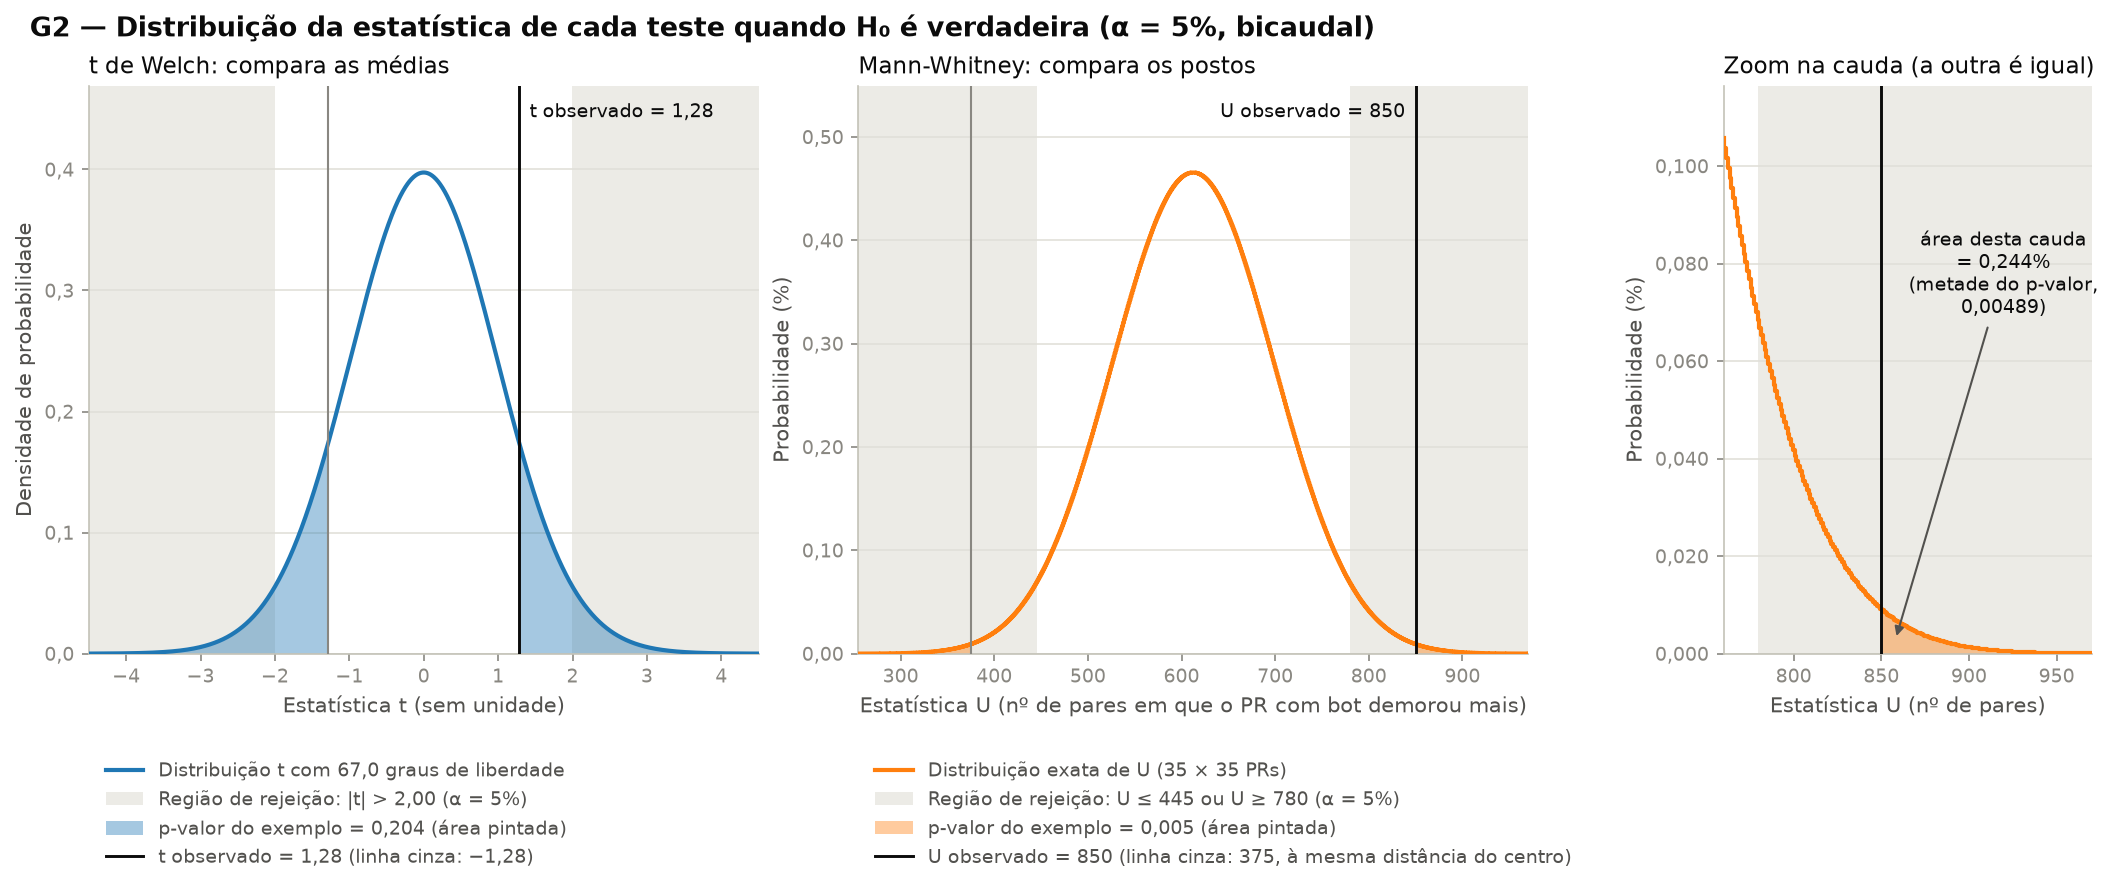
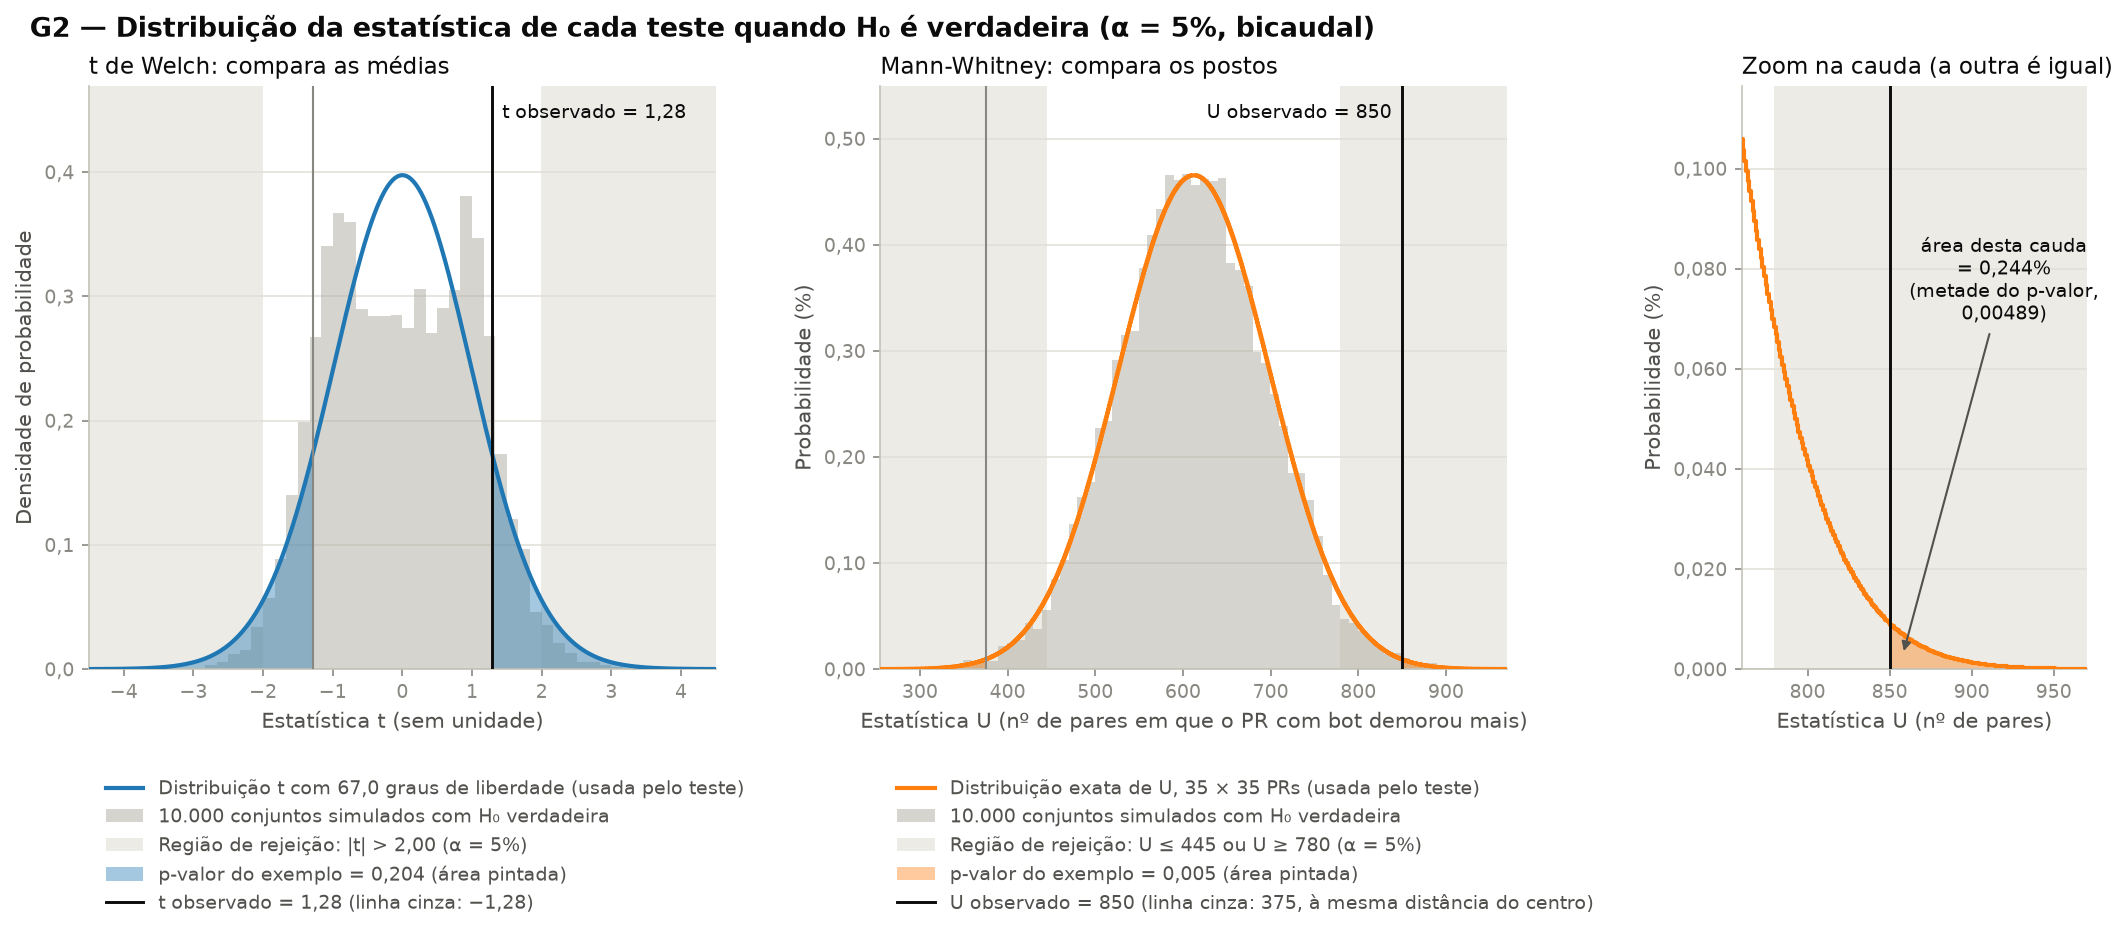
feat: #12 #13 simula a estatistica no g2

Changed region(s): [[0.0312, 0.0, 0.9995, 0.9708], [0.0, 0.2427, 0.0312, 0.6067]]

diff --git a/src/grafico_g2.py b/src/grafico_g2.py
@@ -5,6 +5,11 @@ onde a área do p-valor é pequena demais para aparecer na escala cheia. A faixa
 cinza é a região de rejeição com α = 5% bicaudal, a área colorida é o p-valor
 do exemplo da issue #11 e a linha escura marca a estatística observada nele.
 
+A curva é a distribuição que o teste usa para calcular o p-valor. As barras
+atrás dela mostram a estatística em 10.000 conjuntos simulados com H₀
+verdadeira (situação realista da Q1): no Mann-Whitney as duas coincidem, e no
+Welch a diferença entre elas explica o erro tipo I abaixo de 5% do G3.
+
 Uso:
     python -m src.grafico_g2
 """
@@ -22,9 +27,11 @@ from matplotlib.patches import Patch
 from matplotlib.ticker import FuncFormatter
 from scipy import stats
 
+from src.config import N_SIMULACOES, SEED, make_rng
 from src.estilo import CORES_TESTE, ROTULOS_TESTE
 from src.exemplo import Exemplo, gerar_exemplo
 from src.formatacao import numero, p_valor, porcentagem
+from src.monte_carlo import REALISTA, gerar_conjuntos
 from src.testes_estatisticos import ResultadoMannWhitney, distribuicao_nula_u
 
 RAIZ = Path(__file__).resolve().parent.parent
@@ -39,6 +46,40 @@ GRADE = "#e1e0d9"
 EIXO = "#c3c2b7"
 FAIXA_REJEICAO = "#ecebe6"
 OPACIDADE_P_VALOR = 0.4
+BARRAS_SIMULADAS = "#b4b1a6"
+OPACIDADE_BARRAS = 0.55
+
+
+def estatisticas_sob_h0(
+    repeticoes: int = N_SIMULACOES, semente: int = SEED
+) -> dict[str, np.ndarray]:
+    """t de Welch e U de Mann-Whitney em conjuntos simulados com H₀ verdadeira.
+
+    Usa a situação realista da Q1 (mesma semente), então a proporção desses
+    valores que cai na região de rejeição é o erro tipo I mostrado no G3.
+    """
+    com_bot, sem_bot = gerar_conjuntos(REALISTA, 0.0, repeticoes, make_rng(semente))
+    return {
+        "welch": np.asarray(stats.ttest_ind(com_bot, sem_bot, axis=1, equal_var=False).statistic),
+        "mann_whitney": np.asarray(
+            stats.mannwhitneyu(com_bot, sem_bot, axis=1, method="exact").statistic
+        ),
+    }
+
+
+def _barras(ax: Axes, valores: np.ndarray, bordas: np.ndarray, escala: float = 1.0) -> None:
+    """Histograma normalizado pelo total de conjuntos, comparável à curva."""
+    largura = np.diff(bordas)[0]
+    pesos = np.full(valores.size, escala / (valores.size * largura))
+    ax.hist(
+        valores,
+        bins=bordas,
+        weights=pesos,
+        color=BARRAS_SIMULADAS,
+        alpha=OPACIDADE_BARRAS,
+        linewidth=0,
+        zorder=1,
+    )
 
 
 def _formatar_eixos(ax: Axes, casas_x: int, casas_y: int) -> None:
@@ -69,6 +110,12 @@ def _rotular_linha(ax: Axes, x: float, y: float, texto: str, *, direita: bool = 
 def _legenda(ax: Axes, cor: str, *, curva: str, regiao: str, area: str, observado: str) -> None:
     itens = [
         Line2D([], [], color=cor, linewidth=2, label=curva),
+        Patch(
+            facecolor=BARRAS_SIMULADAS,
+            alpha=OPACIDADE_BARRAS,
+            edgecolor="none",
+            label=f"{numero(N_SIMULACOES, 0)} conjuntos simulados com H₀ verdadeira",
+        ),
         Patch(facecolor=FAIXA_REJEICAO, edgecolor="none", label=f"{regiao} (α = 5%)"),
         Patch(facecolor=cor, alpha=OPACIDADE_P_VALOR, edgecolor="none", label=area),
         Line2D([], [], color=TINTA, linewidth=1.4, label=observado),
@@ -83,7 +130,7 @@ def _legenda(ax: Axes, cor: str, *, curva: str, regiao: str, area: str, observad
     )
 
 
-def _painel_welch(ax: Axes, exemplo: Exemplo) -> None:
+def _painel_welch(ax: Axes, exemplo: Exemplo, t_simulados: np.ndarray) -> None:
     w = exemplo.welch
     cor = CORES_TESTE["welch"]
     limite = max(4.5, abs(w.t) + 0.8)
@@ -93,6 +140,7 @@ def _painel_welch(ax: Axes, exemplo: Exemplo) -> None:
 
     for inicio, fim in ((-limite, -w.t_critico), (w.t_critico, limite)):
         ax.axvspan(inicio, fim, color=FAIXA_REJEICAO, linewidth=0, zorder=0)
+    _barras(ax, t_simulados, np.linspace(-limite, limite, 55))
     ax.fill_between(
         x,
         densidade,
@@ -119,7 +167,7 @@ def _painel_welch(ax: Axes, exemplo: Exemplo) -> None:
     _legenda(
         ax,
         cor,
-        curva=f"Distribuição t com {numero(w.gl, 1)} graus de liberdade",
+        curva=f"Distribuição t com {numero(w.gl, 1)} graus de liberdade (usada pelo teste)",
         regiao=f"Região de rejeição: |t| > {numero(w.t_critico)}",
         area=f"p-valor do exemplo = {p_valor(w.p_valor)} (área pintada)",
         observado=f"t observado = {numero(w.t)} (linha cinza: {numero(-w.t)})",
@@ -137,7 +185,7 @@ def _faixa_u(m: ResultadoMannWhitney) -> tuple[np.ndarray, np.ndarray, float, fl
     return u, 100 * pmf, inicio, fim  # probabilidade em %
 
 
-def _painel_mann_whitney(ax: Axes, exemplo: Exemplo) -> None:
+def _painel_mann_whitney(ax: Axes, exemplo: Exemplo, u_simulados: np.ndarray) -> None:
     m = exemplo.mann_whitney
     cor = CORES_TESTE["mann_whitney"]
     u, probabilidade, inicio_x, fim_x = _faixa_u(m)
@@ -147,6 +195,9 @@ def _painel_mann_whitney(ax: Axes, exemplo: Exemplo) -> None:
 
     ax.axvspan(inicio_x, inferior + 0.5, color=FAIXA_REJEICAO, linewidth=0, zorder=0)
     ax.axvspan(superior - 0.5, fim_x, color=FAIXA_REJEICAO, linewidth=0, zorder=0)
+    # Barras de 10 em 10 valores de U, em % por valor, na mesma escala da curva.
+    bordas = np.arange(np.floor(inicio_x / 10) * 10 - 0.5, fim_x + 10, 10)
+    _barras(ax, u_simulados, bordas, escala=100.0)
     ax.fill_between(
         u,
         probabilidade,
@@ -181,7 +232,7 @@ def _painel_mann_whitney(ax: Axes, exemplo: Exemplo) -> None:
     _legenda(
         ax,
         cor,
-        curva=f"Distribuição exata de U ({m.n_com} × {m.n_sem} PRs)",
+        curva=f"Distribuição exata de U, {m.n_com} × {m.n_sem} PRs (usada pelo teste)",
         regiao=f"Região de rejeição: U ≤ {numero(inferior, 0)} ou U ≥ {numero(superior, 0)}",
         area=f"p-valor do exemplo = {p_valor(m.p_valor)} (área pintada)",
         observado=(
@@ -248,17 +299,25 @@ def _painel_zoom(ax: Axes, exemplo: Exemplo) -> None:
     _formatar_eixos(ax, casas_x=0, casas_y=3)
 
 
-def grafico_g2(exemplo: Exemplo | None = None) -> Figure:
-    """Monta o G2 para o exemplo da issue #11 (ou outro conjunto, se passado)."""
+def grafico_g2(
+    exemplo: Exemplo | None = None, simuladas: dict[str, np.ndarray] | None = None
+) -> Figure:
+    """Monta o G2 para o exemplo da issue #11 (ou outro conjunto, se passado).
+
+    `simuladas` são as estatísticas de `estatisticas_sob_h0`; sem elas, a função
+    roda a simulação (o dashboard passa o resultado guardado em cache).
+    """
     if exemplo is None:
         exemplo = gerar_exemplo()
+    if simuladas is None:
+        simuladas = estatisticas_sob_h0()
 
     # Figure direto, sem pyplot: o Streamlit roda o script fora da thread
     # principal, e assim não há estado global nem janela para fechar.
-    fig = Figure(figsize=(14, 5.8), layout="constrained", facecolor="white")
+    fig = Figure(figsize=(14, 6.1), layout="constrained", facecolor="white")
     ax_welch, ax_mw, ax_zoom = fig.subplots(1, 3, width_ratios=[1, 1, 0.55])
-    _painel_welch(ax_welch, exemplo)
-    _painel_mann_whitney(ax_mw, exemplo)
+    _painel_welch(ax_welch, exemplo, simuladas["welch"])
+    _painel_mann_whitney(ax_mw, exemplo, simuladas["mann_whitney"])
     _painel_zoom(ax_zoom, exemplo)
 
     fig.suptitle(
@@ -273,9 +332,13 @@ def grafico_g2(exemplo: Exemplo | None = None) -> Figure:
     return fig
 
 
-def salvar_g2(destino: Path = FIGURA_PADRAO, exemplo: Exemplo | None = None) -> Path:
+def salvar_g2(
+    destino: Path = FIGURA_PADRAO,
+    exemplo: Exemplo | None = None,
+    simuladas: dict[str, np.ndarray] | None = None,
+) -> Path:
     destino.parent.mkdir(parents=True, exist_ok=True)
-    grafico_g2(exemplo).savefig(destino, dpi=150, bbox_inches="tight")
+    grafico_g2(exemplo, simuladas).savefig(destino, dpi=150, bbox_inches="tight")
     return destino
 
 

diff --git a/tests/test_grafico_g2.py b/tests/test_grafico_g2.py
@@ -2,12 +2,23 @@
 
 from __future__ import annotations
 
-import matplotlib.colors as mcolors
-import pytest
+import math
 
+import matplotlib.colors as mcolors
+import numpy as np
+import pytest
+from scipy import stats
+
+from src.config import N_SIMULACOES
 from src.estilo import CORES_TESTE
 from src.exemplo import gerar_exemplo
-from src.grafico_g2 import grafico_g2, salvar_g2
+from src.grafico_g2 import estatisticas_sob_h0, grafico_g2, salvar_g2
+from src.monte_carlo import REALISTA, simular
+
+
+@pytest.fixture(scope="module")
+def simuladas() -> dict[str, np.ndarray]:
+    return estatisticas_sob_h0()
 
 
 def _linhas_verticais(ax) -> list[float]:
@@ -18,8 +29,8 @@ def _linhas_verticais(ax) -> list[float]:
     ]
 
 
-def test_g2_tem_titulo_eixos_e_legenda() -> None:
-    fig = grafico_g2()
+def test_g2_tem_titulo_eixos_e_legenda(simuladas) -> None:
+    fig = grafico_g2(simuladas=simuladas)
     welch, mann_whitney, zoom = fig.axes[:3]
 
     assert "G2" in fig.get_suptitle()
@@ -31,10 +42,11 @@ def test_g2_tem_titulo_eixos_e_legenda() -> None:
         textos = [t.get_text() for t in ax.get_legend().get_texts()]
         assert any("Região de rejeição" in t for t in textos)
         assert any("p-valor" in t for t in textos)
+        assert any("conjuntos simulados com H₀ verdadeira" in t for t in textos)
 
 
-def test_g2_usa_a_cor_de_cada_teste() -> None:
-    fig = grafico_g2()
+def test_g2_usa_a_cor_de_cada_teste(simuladas) -> None:
+    fig = grafico_g2(simuladas=simuladas)
     welch, mann_whitney, zoom = fig.axes[:3]
     pares = ((welch, "welch"), (mann_whitney, "mann_whitney"), (zoom, "mann_whitney"))
     for ax, teste in pares:
@@ -42,23 +54,60 @@ def test_g2_usa_a_cor_de_cada_teste() -> None:
         assert CORES_TESTE[teste] in cores
 
 
-def test_g2_marca_a_estatistica_observada() -> None:
+def test_g2_marca_a_estatistica_observada(simuladas) -> None:
     exemplo = gerar_exemplo()
-    fig = grafico_g2(exemplo)
+    fig = grafico_g2(exemplo, simuladas)
     welch, mann_whitney, zoom = fig.axes[:3]
     assert exemplo.welch.t in _linhas_verticais(welch)
     assert exemplo.mann_whitney.u in _linhas_verticais(mann_whitney)
     assert exemplo.mann_whitney.u in _linhas_verticais(zoom)
 
 
+def test_g2_desenha_as_barras_simuladas(simuladas) -> None:
+    welch, mann_whitney, _ = grafico_g2(simuladas=simuladas).axes[:3]
+    for ax in (welch, mann_whitney):
+        assert len(ax.patches) > 20  # as barras do histograma
+
+
+def test_estatisticas_simuladas_sao_as_da_q1(simuladas) -> None:
+    """Os t e U simulados vêm dos mesmos conjuntos da Q1 (situação realista)."""
+    assert simuladas["welch"].size == simuladas["mann_whitney"].size == N_SIMULACOES
+    q1 = simular(REALISTA, 0.0)
+    p_welch = 2 * stats.t.sf(np.abs(simuladas["welch"]), _gl_welch_da_q1())
+    np.testing.assert_allclose(p_welch, q1.p["welch"], rtol=1e-9)
+
+
+def _gl_welch_da_q1() -> np.ndarray:
+    from src.config import make_rng
+    from src.monte_carlo import gerar_conjuntos
+
+    com, sem = gerar_conjuntos(REALISTA, 0.0, N_SIMULACOES, make_rng())
+    return stats.ttest_ind(com, sem, axis=1, equal_var=False).df
+
+
+def test_u_simulado_segue_a_distribuicao_exata(simuladas) -> None:
+    u = simuladas["mann_whitney"]
+    assert math.isclose(u.mean(), 35 * 35 / 2, rel_tol=0.01)
+    assert math.isclose(u.std(), math.sqrt(35 * 35 * 71 / 12), rel_tol=0.03)
+
+
+def test_t_simulado_tem_dois_picos_e_caudas_leves(simuladas) -> None:
+    """Sustenta o texto da seção 3: picos perto de ±1 e pouca massa além de ±2."""
+    t = simuladas["welch"]
+    centro = np.mean(np.abs(t) < 0.25)
+    perto_de_um = np.mean((np.abs(t) > 0.75) & (np.abs(t) < 1.25)) / 2
+    assert perto_de_um > centro  # mais massa em cada pico do que no meio
+    assert np.mean(np.abs(t) > 2) < 0.05
+
+
 @pytest.mark.parametrize("delta", [0.0, -1.0, 2.0])
-def test_g2_funciona_em_outros_exemplos(delta: float) -> None:
+def test_g2_funciona_em_outros_exemplos(delta: float, simuladas) -> None:
     """Sem efeito, com o U na cauda esquerda e com efeito grande."""
-    fig = grafico_g2(gerar_exemplo(delta_mu=delta))
+    fig = grafico_g2(gerar_exemplo(delta_mu=delta), simuladas)
     assert len(fig.axes) >= 3
 
 
-def test_salvar_g2(tmp_path) -> None:
-    destino = salvar_g2(tmp_path / "g2.png")
+def test_salvar_g2(tmp_path, simuladas) -> None:
+    destino = salvar_g2(tmp_path / "g2.png", simuladas=simuladas)
     assert destino.exists()
     assert destino.stat().st_size > 10_000

diff --git a/dashboard/app.py b/dashboard/app.py
@@ -21,7 +21,7 @@ from src.dados_reais import analisar, tabela_dados_reais, texto_dados_reais  # n
 from src.exemplo import gerar_exemplo, interpretacao, pr_mais_lento, tabela_resultados  # noqa: E402
 from src.formatacao import numero, p_valor, porcentagem  # noqa: E402
 from src.grafico_g1 import grafico_g1  # noqa: E402
-from src.grafico_g2 import grafico_g2  # noqa: E402
+from src.grafico_g2 import estatisticas_sob_h0, grafico_g2  # noqa: E402
 from src.grafico_g3 import grafico_g3  # noqa: E402
 from src.monte_carlo import simular, tabela_rejeicoes  # noqa: E402
 from src.situacoes import POR_CHAVE, TODAS_AS_SITUACOES  # noqa: E402
@@ -109,24 +109,34 @@ def texto_como_os_testes_funcionam(exemplo) -> str:
         "O **t de Welch** compara as médias dos dois grupos, e o **Mann-Whitney** "
         "compara os postos, isto é, se os PRs com bot tendem a ficar no fim quando os "
         f"{total} tempos são colocados em ordem. Como o teste é bicaudal, a região de "
-        "rejeição (faixa cinza) fica nas duas pontas da distribuição de cada estatística "
-        f"sob H₀ e soma 5%: |t| > {numero(w.t_critico)} no Welch e "
-        f"U ≤ {numero(inferior, 0)} ou U ≥ {numero(superior, 0)} no Mann-Whitney. "
-        "O p-valor é a área pintada: a chance de, sem efeito nenhum, sair uma "
-        "estatística tão afastada do centro quanto a do exemplo, e não a chance de H₀ "
-        f"ser verdadeira. No exemplo, {cenario}, {resultado(m, 'Mann-Whitney')} e "
+        "rejeição (faixa cinza) fica nas duas pontas e reúne no máximo 5% dos valores "
+        f"sob H₀ (|t| > {numero(w.t_critico)}; U ≤ {numero(inferior, 0)} ou "
+        f"U ≥ {numero(superior, 0)}), e o p-valor do exemplo é a área pintada: a chance "
+        "de sair uma estatística tão extrema sem efeito nenhum, e não a chance de H₀ ser "
+        "verdadeira. As barras mostram a estatística em 10.000 conjuntos simulados sem "
+        "efeito: no Mann-Whitney elas seguem a curva exata, mas no Welch formam dois "
+        "picos perto de ±1 e quase não chegam às pontas, porque um PR muito lento pesa "
+        "na média e no desvio-padrão ao mesmo tempo, e por isso o Welch rejeita menos de "
+        f"5% no G3. No exemplo, {cenario}, {resultado(m, 'Mann-Whitney')} e "
         f"{resultado(w, 'Welch')}{motivo}."
     )
+
+
+@st.cache_resource(show_spinner="Simulando 10.000 conjuntos com H₀ verdadeira...")
+def estatisticas_do_g2():
+    """t e U em 10.000 conjuntos sem efeito, para as barras do G2."""
+    return estatisticas_sob_h0()
 
 
 exemplo = gerar_exemplo()
 st.markdown(texto_como_os_testes_funcionam(exemplo))
 
 st.pyplot(
-    grafico_g2(exemplo),
+    grafico_g2(exemplo, estatisticas_do_g2()),
     alt=(
         "G2: distribuição t de Welch e distribuição exata de U de Mann-Whitney sob H₀, "
-        "com a região de rejeição em cinza e o p-valor do exemplo como área pintada."
+        "com barras da estatística em 10.000 conjuntos simulados sem efeito, a região "
+        "de rejeição em cinza e o p-valor do exemplo como área pintada."
     ),
 )
 
